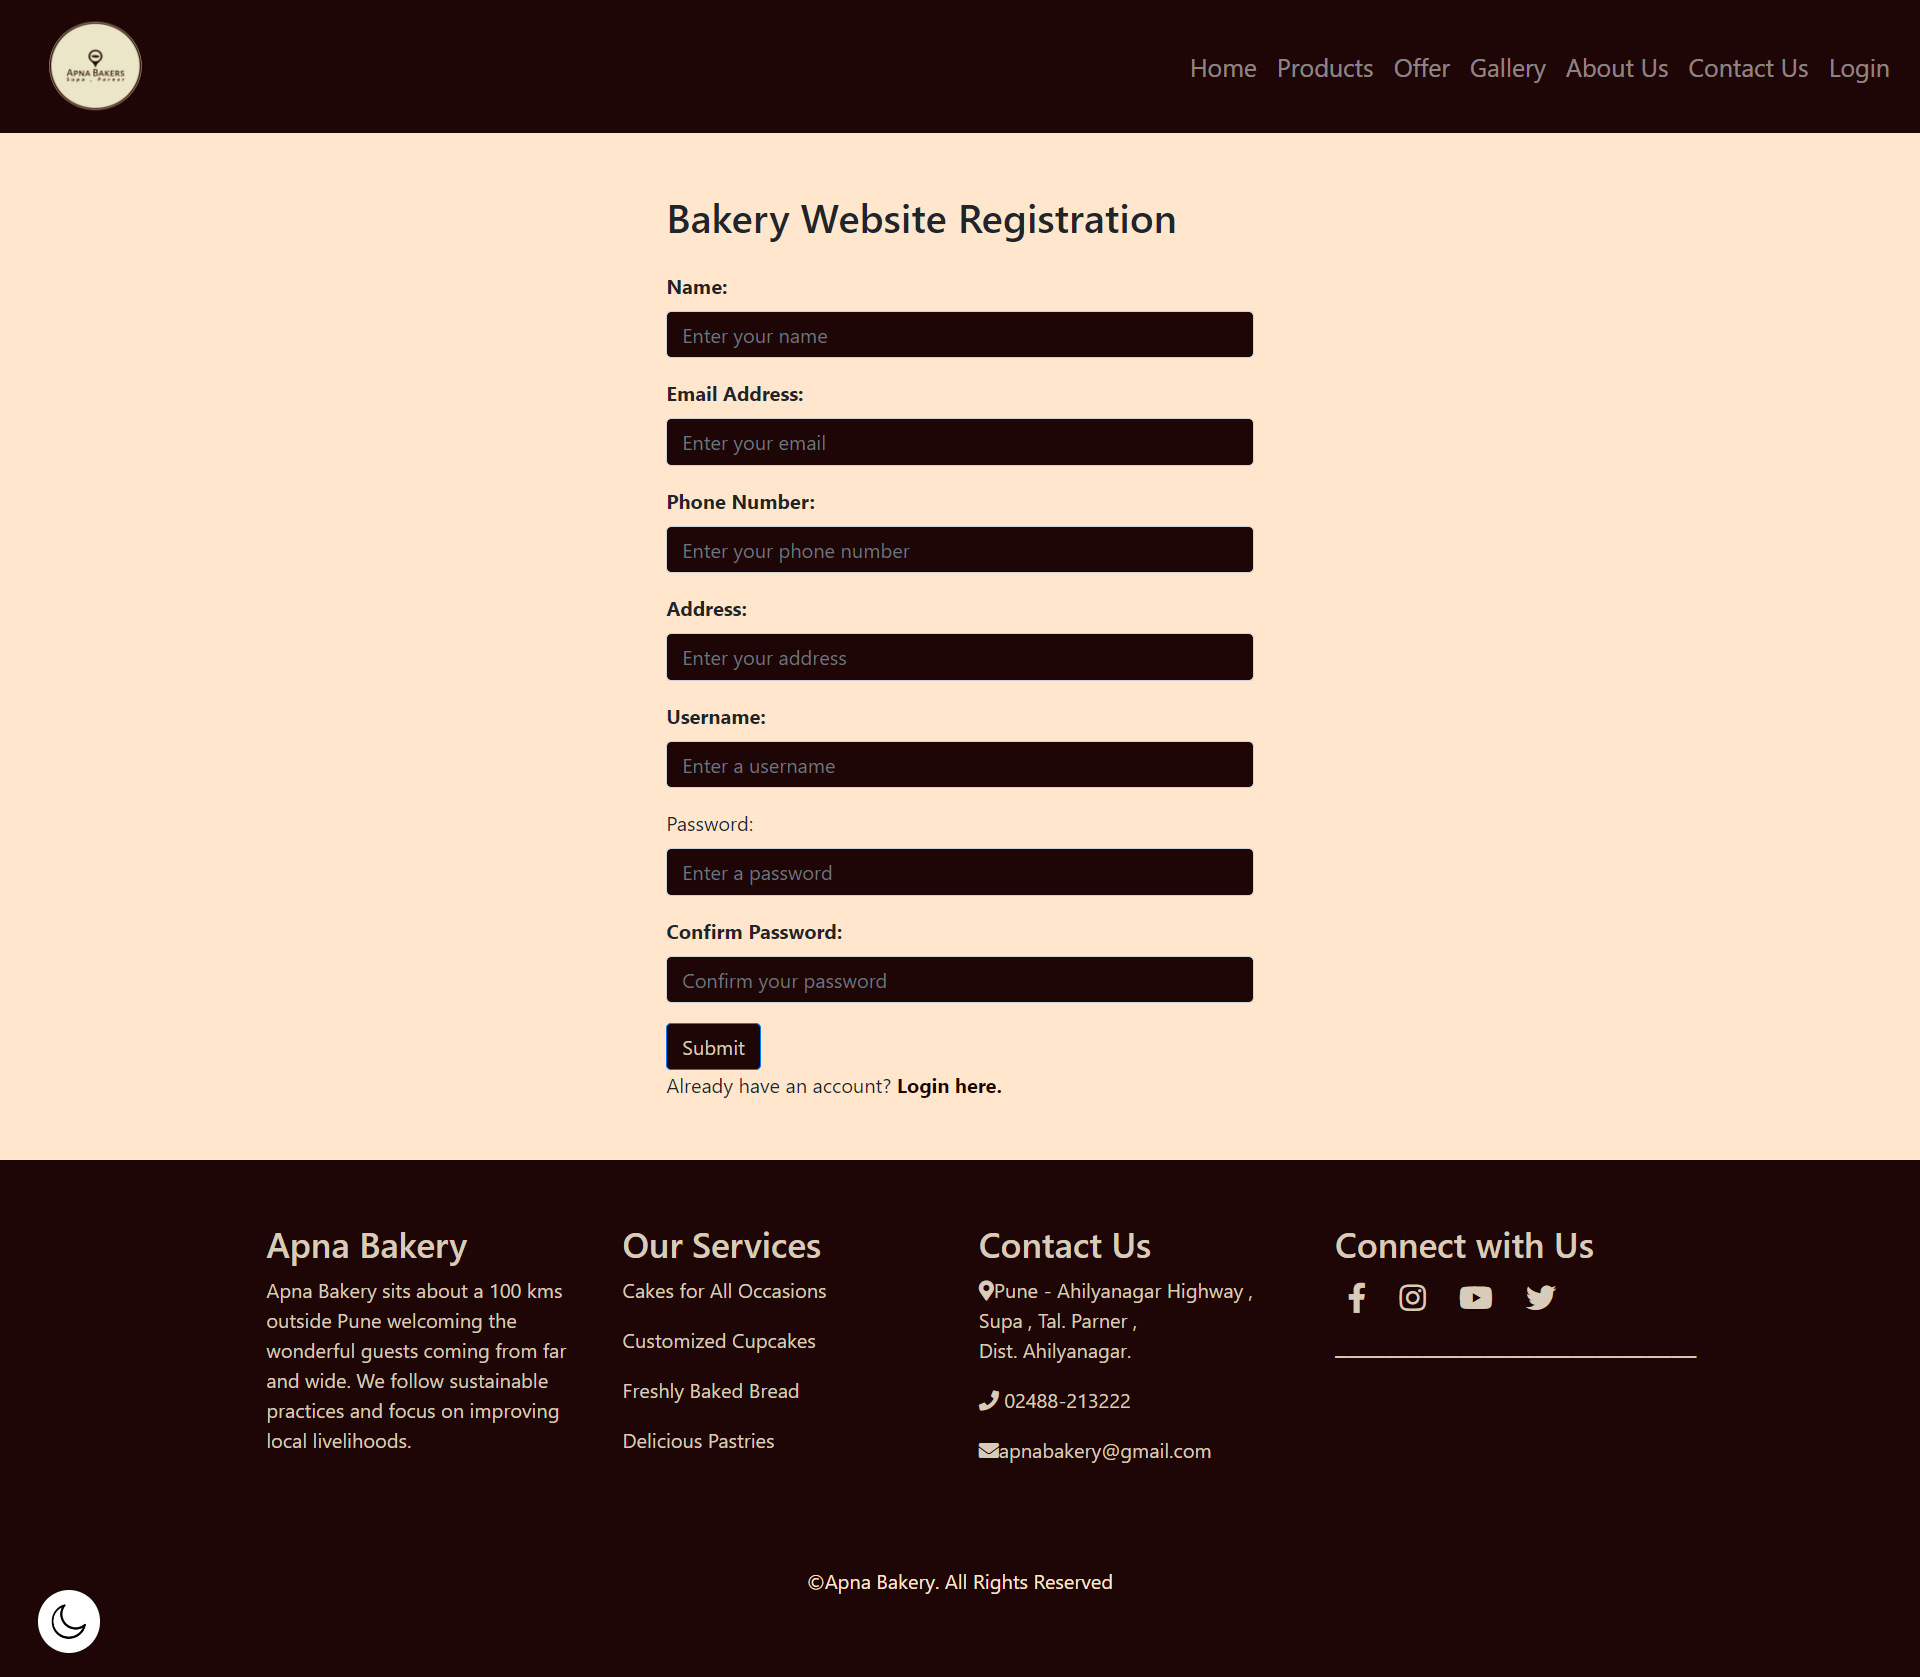
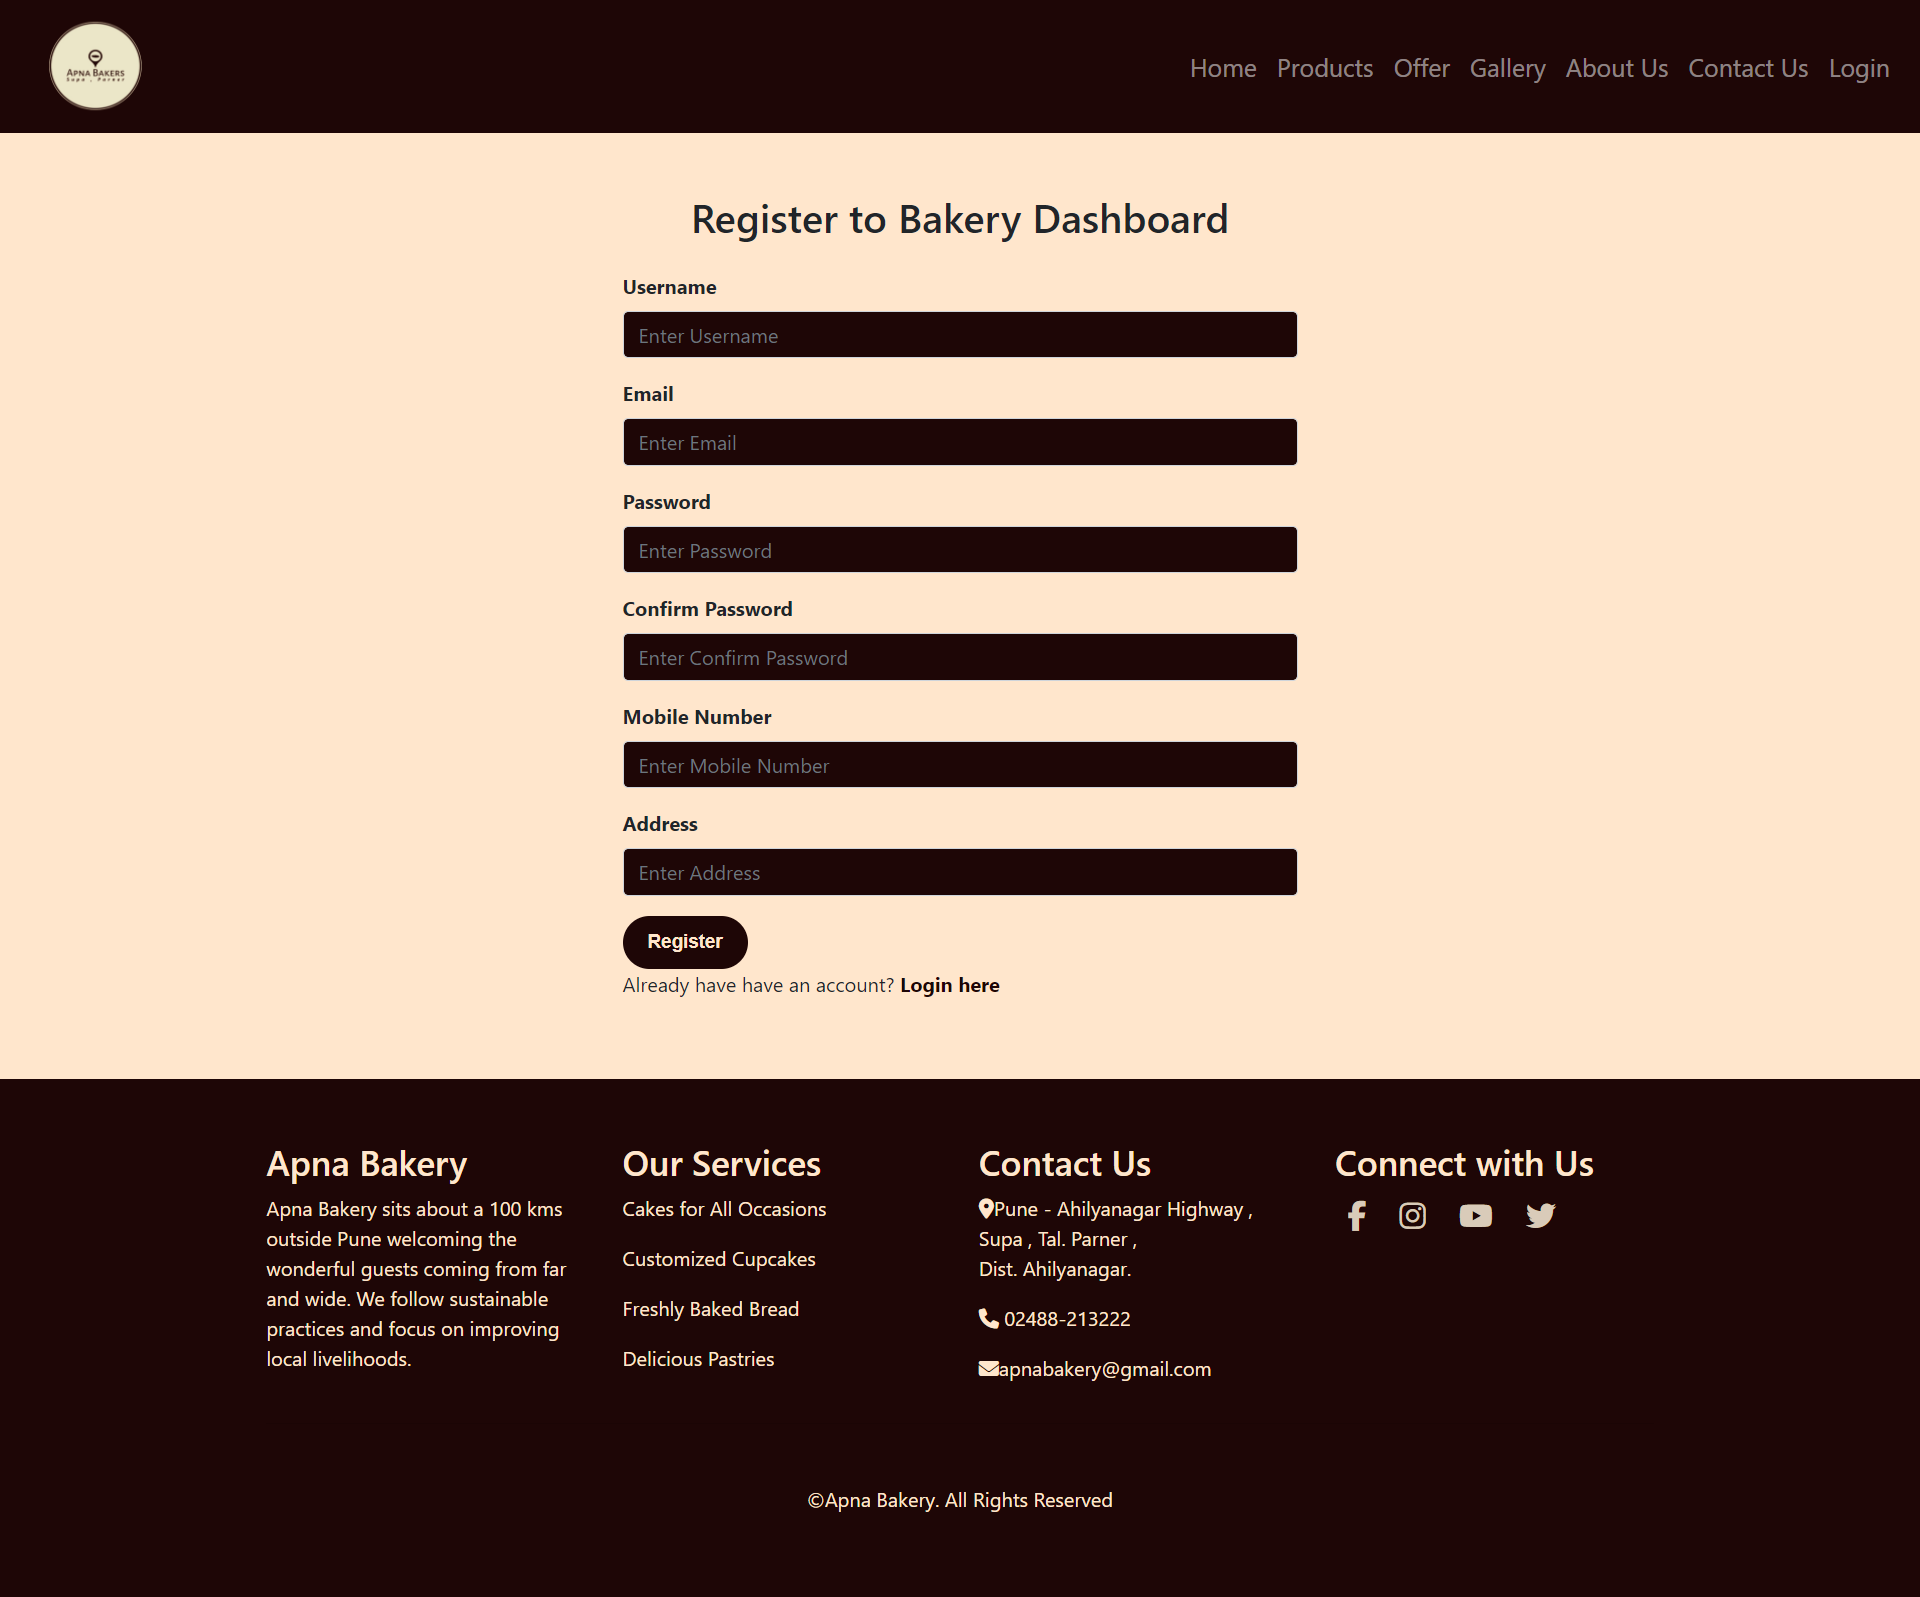
done

diff --git a/pages/register.html b/pages/register.html
@@ -65,7 +65,7 @@
         <li class="nav-item ">
           <a class="nav-link" href="..\index.html">Home</a>
         </li>
-        <li class="nav-item active">
+        <li class="nav-item ">
           <a class="nav-link" href="..\pages\product.html">Products</a>
         </li>
         <li class="nav-item">
@@ -91,7 +91,7 @@
   <div class="container mt-5 mb-5">
     <div class="row justify-content-center">
       <div class="col-md-6">
-        <h2 class="text-center mb-4">Login to Bakery Dashboard</h2>
+        <h2 class="text-center mb-4">Register to Bakery Dashboard</h2>
         <form>
           <div class="form-group">
             <label for="username"><b>Username</b></label>
